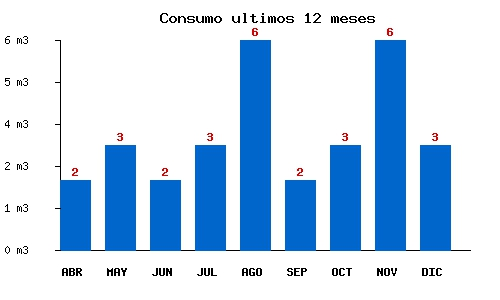
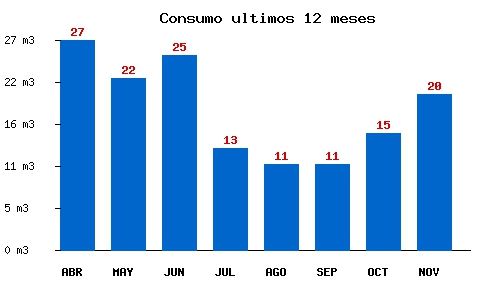
MARZO-2026

diff --git a/app/Controllers/Pagos/Ctrl_boleta_electronica.php b/app/Controllers/Pagos/Ctrl_boleta_electronica.php
@@ -106,8 +106,8 @@ public function ObtieneToken(){
 
     $pass_api=$datosApr["clave_dete"];
 
-    // $pass_api='AmFMmcj8i0';
-    // $rut_apr='44444444-4';
+   //  $pass_api='AmFMmcj8i0';
+   //  $rut_apr='44444444-4';
 
     $client = new \nusoap_client("http://www.appoctava.cl/ws/WebService.php?wsdl");
     $parametros = array("RUTACCESOAPI" => $rut_apr,"PASSWORDACCESOAPI" =>  $pass_api); 
@@ -297,7 +297,7 @@ public function valida_token($TokenObtenido){
 
 }
 
-public function generarGrafico($id_socio)
+public function generarGrafico($id_socio,$mes_consumo)
 {
     // ===============================
     // 1. CONSULTA CORRECTA
@@ -310,6 +310,8 @@ public function generarGrafico($id_socio)
         FROM metros
         WHERE id_socio = ?
           AND fecha_ingreso >= CURDATE() - INTERVAL 12 MONTH
+        AND estado IN (1,2)
+        AND DATE_FORMAT(fecha_ingreso, '%m-%Y') <> '$mes_consumo'
         GROUP BY periodo, mes
         ORDER BY periodo ASC
     ";
@@ -999,7 +1001,7 @@ public function procesa_dtePablo($folio,$f_sii){
                   exit();
                 }
 
-                $grafico= $this->generarGrafico($id_socio);
+                $grafico= $this->generarGrafico($id_socio,$mes_consumo);
               
 
               $fp = fopen(dirname(__FILE__,4)."/public/".$f_sii.".txt", "w");
@@ -1557,7 +1559,7 @@ public function procesa_dte($TokenObtenido,$folio,$f_sii){
              ->select("socios.id")
              ->select("s.nombre as sector")
              ->select("t.tipo as tarifa")
-             ->select("ifnull(afecto_corte(socios.id,socios.id_apr),0) as meses_deuda")
+             ->select("0  as meses_deuda")
               ->select("a.descuento as descuento")
              ->join("arranques a", "a.id_socio = socios.id")
              ->join("sectores s", "a.id_sector = s.id")
@@ -1858,10 +1860,11 @@ public function procesa_dte($TokenObtenido,$folio,$f_sii){
 
                 $trece=$fecha_vencimiento;
 
-                $img_grafico=$this->generarGrafico($id_socio);
+                $img_grafico=$this->generarGrafico($id_socio,$mes_consumo);
                 $img_consumo=$this->imagenTablaConsumo($folio);
                 //exit();
 
+                $abono=0;
                 
                 $xml_adicional = '<Adicional>
                                 <Uno>0</Uno>
@@ -1890,14 +1893,14 @@ public function procesa_dte($TokenObtenido,$folio,$f_sii){
                                 <Veinticuatro>'.$subsidiario.'</Veinticuatro>
                                 <Veinticinco>SOCIO</Veinticinco>
                                 <Veintiseis>'.$datosApr['fono'].'/'.$datosApr['email'].'</Veintiseis>
-                                <Veintisiete></Veintisiete>
+                                <Veintisiete>'.$abono.'</Veintisiete>
                                 <Cuarentayocho>'.$img_grafico.'</Cuarentayocho>
                                 <Cuarentaynueve>'.$img_consumo.'</Cuarentaynueve>
                                 </Adicional>';
   
                    
                 // $parametros = array("STRINGXML" => $xml_dte_limpio,"STRINGXMLADICIONAL" => $xml_adicional,"ASIGNAFOLIO" => "True","TIPOIMPRESO" => "1","AMBIENTE" => "0","TOKEN" => $TokenObtenido);
-                $parametros = array("STRINGXML" => $xml_dte_limpio, "STRINGXMLADICIONAL" => $xml_adicional, "ASIGNAFOLIO" => "False", "TIPOIMPRESO" => "1", "AMBIENTE" => "1", "TOKEN" => $TokenObtenido);
+                 $parametros = array("STRINGXML" => $xml_dte_limpio, "STRINGXMLADICIONAL" => $xml_adicional, "ASIGNAFOLIO" => "False", "TIPOIMPRESO" => "1", "AMBIENTE" => "1", "TOKEN" => $TokenObtenido);
 
       if($tipo_dte==41 or $tipo_dte == 39 or $tipo_dte == 33 or $tipo_dte == 34){   
             

diff --git a/system/CodeIgniter.php b/system/CodeIgniter.php
@@ -181,7 +181,7 @@ class CodeIgniter
 	public function initialize()
 	{
 		// Set default locale on the server
-		locale_set_default($this->config->defaultLocale ?? 'en');
+		//locale_set_default($this->config->defaultLocale ?? 'en');
 
 		// Set default timezone on the server
 		date_default_timezone_set($this->config->appTimezone ?? 'UTC');
